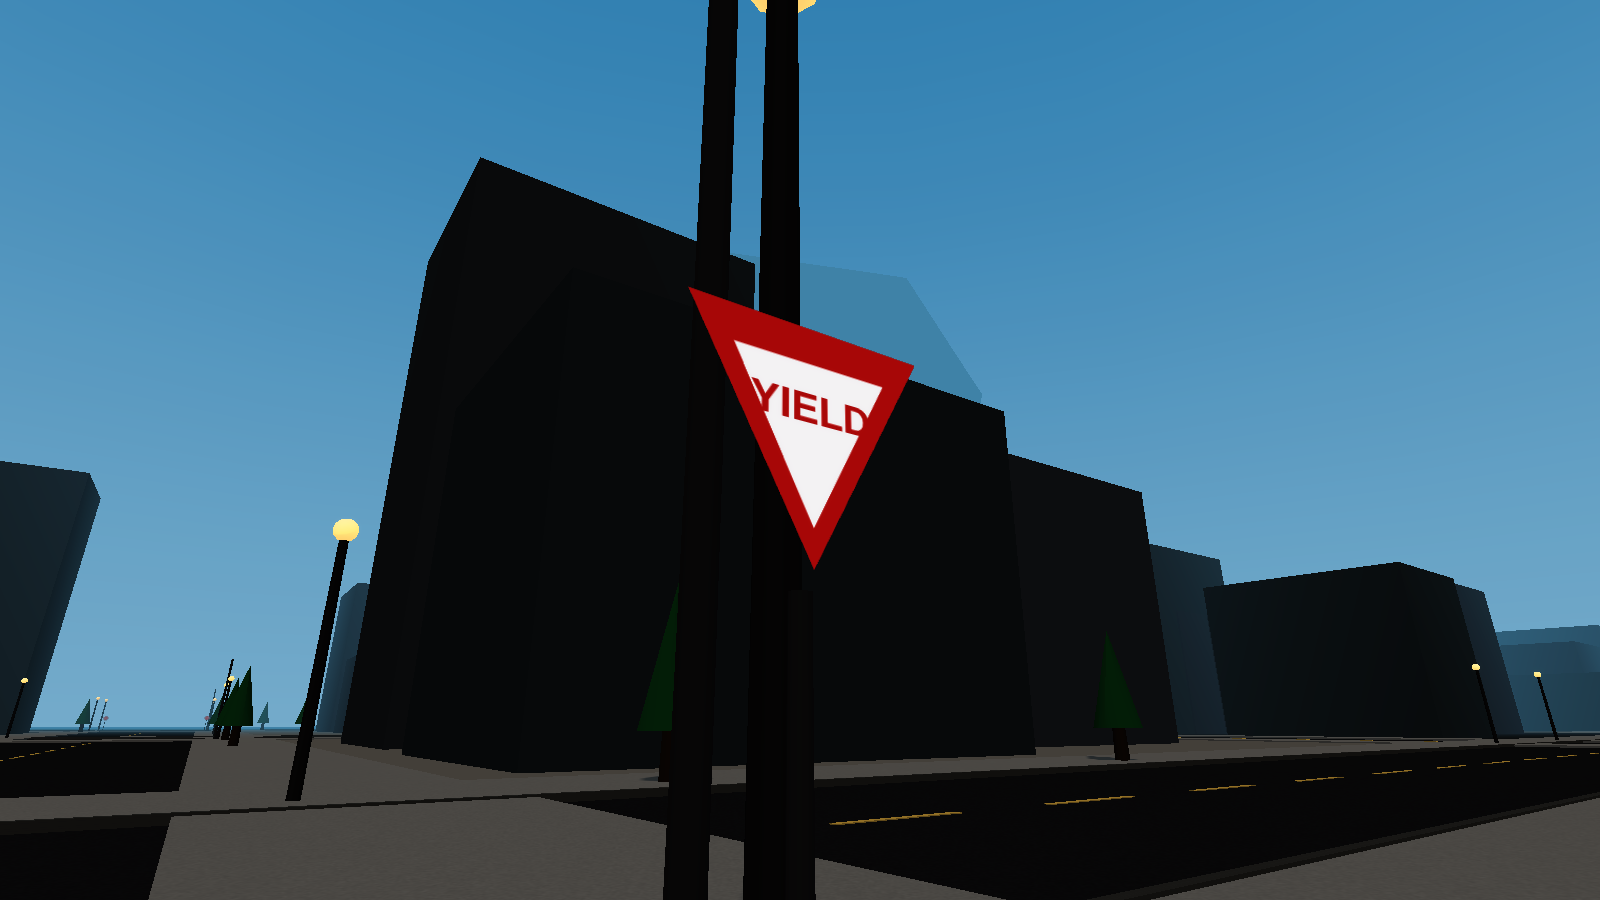
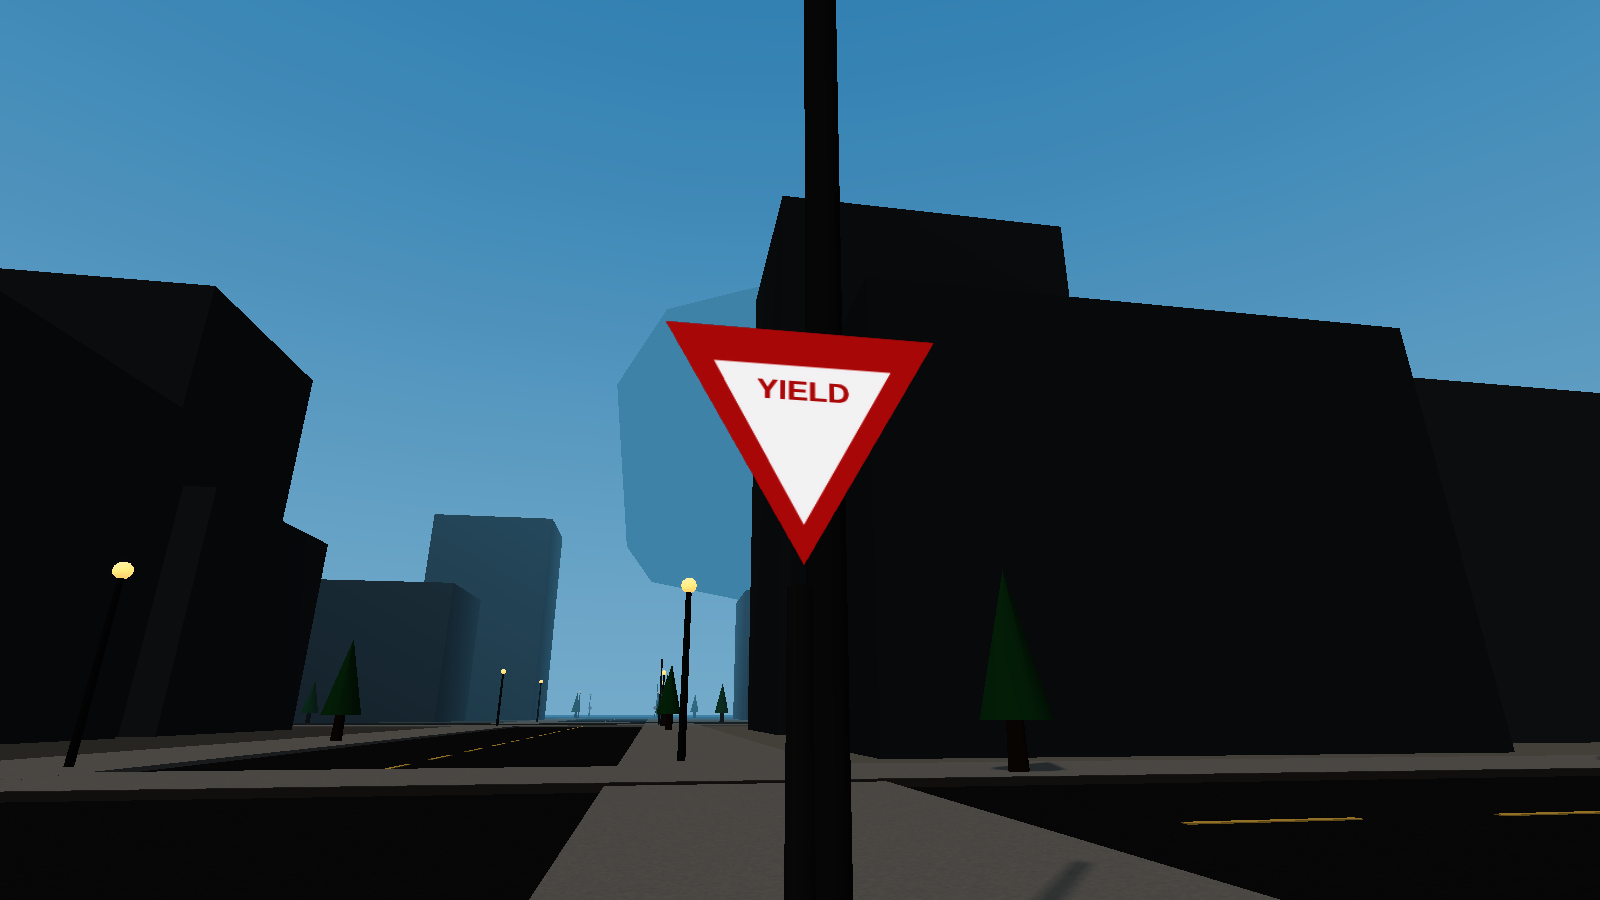
fix: keep YIELD inside the triangle and move corner streetlights
Shrink and centre YIELD near the wide top of the white field so the
Y no longer clips the red border. Offset decorative corner lamps 16 m
along the curb so a streetlight is not stacked on the sign post.
signPose and traffic rules stay the same.

diff --git a/game/src/render/trafficSigns.ts b/game/src/render/trafficSigns.ts
@@ -92,30 +92,54 @@ function paintStop(ctx: CanvasRenderingContext2D, w: number, h: number) {
   ctx.fillText('STOP', cx, cy + w * 0.012);
 }
 
-function paintYield(ctx: CanvasRenderingContext2D, w: number, h: number) {
-  ctx.clearRect(0, 0, w, h);
-  const cx = w / 2;
+/** Layout for YIELD inside the white field (inverted triangle, wide at the top). */
+export function yieldTextLayout(w: number, h: number) {
   const top = h * 0.06;
   const bot = h * 0.94;
   const half = w * 0.46;
-  const tri = (inset: number) => {
+  const inset = w * 0.14;
+  const whiteTop = top + inset;
+  const whiteBot = bot - inset;
+  const whiteHalfTop = half - inset * 1.15;
+  const textY = whiteTop + (whiteBot - whiteTop) * 0.18;
+  const t = (textY - whiteTop) / (whiteBot - whiteTop);
+  const halfAtY = whiteHalfTop * (1 - t);
+  const maxWidth = halfAtY * 2 * 0.72;
+  const font = Math.round(w * 0.105);
+  const approxWidth = 5 * font * 0.62;
+  return { top, bot, half, inset, textY, font, halfAtY, maxWidth, approxWidth, fits: approxWidth <= maxWidth };
+}
+
+function paintYield(ctx: CanvasRenderingContext2D, w: number, h: number) {
+  ctx.clearRect(0, 0, w, h);
+  const cx = w / 2;
+  const layout = yieldTextLayout(w, h);
+  const { top, bot, half, inset, textY } = layout;
+  const tri = (pad: number) => {
     ctx.beginPath();
-    ctx.moveTo(cx, bot - inset);
-    ctx.lineTo(cx - half + inset * 1.15, top + inset);
-    ctx.lineTo(cx + half - inset * 1.15, top + inset);
+    ctx.moveTo(cx, bot - pad);
+    ctx.lineTo(cx - half + pad * 1.15, top + pad);
+    ctx.lineTo(cx + half - pad * 1.15, top + pad);
     ctx.closePath();
   };
   tri(0);
   ctx.fillStyle = '#d32f2f';
   ctx.fill();
-  tri(w * 0.14);
+  tri(inset);
   ctx.fillStyle = '#f7f7f7';
   ctx.fill();
   ctx.fillStyle = '#d32f2f';
   ctx.textAlign = 'center';
   ctx.textBaseline = 'middle';
-  ctx.font = `bold ${Math.round(w * 0.16)}px Arial, Helvetica, sans-serif`;
-  ctx.fillText('YIELD', cx, h * 0.38);
+  let size = layout.font;
+  ctx.font = `bold ${size}px Arial, Helvetica, sans-serif`;
+  if (typeof ctx.measureText === 'function') {
+    while (size >= 10 && ctx.measureText('YIELD').width > layout.maxWidth) {
+      size -= 1;
+      ctx.font = `bold ${size}px Arial, Helvetica, sans-serif`;
+    }
+  }
+  ctx.fillText('YIELD', cx, textY);
 }
 
 function facingPlusX(geo: THREE.BufferGeometry): THREE.BufferGeometry {

diff --git a/game/src/render/cityLook.test.ts b/game/src/render/cityLook.test.ts
@@ -1,6 +1,8 @@
 import { describe, it, expect } from 'vitest';
 import * as THREE from 'three';
-import { applyVertexAO, instanceAO, FOG_FAR_DEFAULT, SKY_DAY } from './cityLook';
+import { applyVertexAO, cornerStreetLampOffsets, instanceAO, FOG_FAR_DEFAULT, SKY_DAY } from './cityLook';
+import { signPose } from '../sim/intersectionRules';
+import { vec3 } from '../sim/math';
 import { getCityTextures } from './cityTextures';
 
 describe('city look helpers', () => {
@@ -26,6 +28,16 @@ describe('city look helpers', () => {
   it('keeps fog far tight enough to hide pop-in', () => {
     expect(FOG_FAR_DEFAULT).toBeLessThanOrEqual(280);
     expect(SKY_DAY).toBeGreaterThan(0);
+  });
+
+  it('keeps corner streetlights off stop / yield posts', () => {
+    const inter = { center: vec3(0, 0, 0), signedHeadings: [0, Math.PI / 2, Math.PI, -Math.PI / 2] } as Parameters<typeof signPose>[0];
+    const lamps = cornerStreetLampOffsets(14).map(o => ({ x: o.x, y: -o.z }));
+    for (const heading of [0, Math.PI / 2, Math.PI, -Math.PI / 2]) {
+      const pose = signPose(inter, heading);
+      const nearest = Math.min(...lamps.map(l => Math.hypot(l.x - pose.x, l.y - pose.y)));
+      expect(nearest).toBeGreaterThan(4.5);
+    }
   });
 
   it('builds procedural textures without throwing', () => {

diff --git a/game/src/render/trafficSigns.test.ts b/game/src/render/trafficSigns.test.ts
@@ -1,6 +1,6 @@
 import { describe, it, expect } from 'vitest';
 import * as THREE from 'three';
-import { createSignGroup, getSignAssets, octagonPath, SIGN_BLADE_Y } from './trafficSigns';
+import { createSignGroup, getSignAssets, octagonPath, SIGN_BLADE_Y, yieldTextLayout } from './trafficSigns';
 
 describe('traffic signs', () => {
   it('shares one pole / stop / yield material across groups', () => {
@@ -47,6 +47,14 @@ describe('traffic signs', () => {
 
   it('caches one shared asset set', () => {
     expect(getSignAssets()).toBe(getSignAssets());
+  });
+
+  it('keeps YIELD inside the white triangle near the wide top', () => {
+    const layout = yieldTextLayout(256, 256);
+    expect(layout.fits).toBe(true);
+    expect(layout.textY).toBeLessThan(256 * 0.4);
+    expect(layout.approxWidth).toBeLessThan(layout.maxWidth);
+    expect(layout.font).toBeLessThan(256 * 0.14);
   });
 
   it('draws a flat-top octagon (8 vertices)', () => {

diff --git a/game/src/main.ts b/game/src/main.ts
@@ -86,6 +86,7 @@ import {
   buildingInstanceColor,
   buildingPaletteMaterial,
   configureRendererLook,
+  cornerStreetLampOffsets,
   createCityLook,
   curbMaterial,
   impostorMaterial,
@@ -493,9 +494,9 @@ function buildCityRoads() {
         cross.push({ x: x + roadWidth / 2 + 2.2, y: 0.03, z: z + s * 0.9, ry: Math.PI / 2 });
         cross.push({ x: x - roadWidth / 2 - 2.2, y: 0.03, z: z + s * 0.9, ry: Math.PI / 2 });
       }
-      for (const [dx, dz] of [[1, 1], [1, -1], [-1, 1], [-1, -1]] as const) {
-        poles.push({ x: x + dx * (roadWidth / 2 + 2), y: 3, z: z + dz * (roadWidth / 2 + 2) });
-        lamps.push({ x: x + dx * (roadWidth / 2 + 2), y: 6, z: z + dz * (roadWidth / 2 + 2) });
+      for (const off of cornerStreetLampOffsets(roadWidth)) {
+        poles.push({ x: x + off.x, y: 3, z: z + off.z });
+        lamps.push({ x: x + off.x, y: 6, z: z + off.z });
       }
     }
   }

diff --git a/game/src/render/cityLook.ts b/game/src/render/cityLook.ts
@@ -200,6 +200,19 @@ export function instanceAO(x: number, y: number, height: number): THREE.Color {
   return new THREE.Color(s, s, s * 0.98);
 }
 
+/** Corner streetlight offset from an intersection, in Three.js XZ. */
+export function cornerStreetLampOffsets(roadWidth: number): Array<{ x: number; z: number }> {
+  const side = roadWidth / 2 + 2;
+  const along = 16;
+  const out: Array<{ x: number; z: number }> = [];
+  for (const dx of [1, -1] as const) {
+    for (const dz of [1, -1] as const) {
+      out.push({ x: dx * along, z: dz * side });
+    }
+  }
+  return out;
+}
+
 export function makeGrassGround(): THREE.Mesh {
   const geo = new THREE.PlaneGeometry(1000, 1000, 8, 8);
   applyVertexAO(geo, 0.22);

diff --git a/wiki/systems/city-look.md b/wiki/systems/city-look.md
@@ -8,7 +8,7 @@ sources: [34, 35, 38]
 
 The live scene uses a hemisphere light plus one directional sun. The sun’s PCF-soft shadow camera is a **tight frustum** (~38 m) that follows the ego — one cascade, not a city-wide map. Renderer uses ACES filmic tone mapping and sRGB output. A back-face sky-dome shader paints a horizon gradient; linear fog (~70–240 m) hides far-building pop-in.
 
-Materials are procedural CC0 canvas textures (`cityTextures.ts`): **low-contrast isotropic noise** on asphalt / sidewalk / curb (no grout, no oil streaks). Each ground mesh clones the map and sets UV repeat from world size / 8 m so tiles are square. Mipmaps plus anisotropy (up to 8) hide distant shimmer. Buildings use the pre-#34 solid grey palette on instanced boxes (near + far impostor LOD) — no window-grid atlas. Block interiors are plazas, concrete pads, or parking lots, a visual-only 2×2 of grey lot buildings, plus benches/bins/planters so the 1000 m grass plane is not the block fill. Trees, poles, lamps, and road marks stay instanced. Stop / yield blades are shared canvas textures on two `InstancedMesh`es plus one pole instance (`trafficSigns.ts`); they face oncoming traffic and do not add per-sign draw calls.
+Materials are procedural CC0 canvas textures (`cityTextures.ts`): **low-contrast isotropic noise** on asphalt / sidewalk / curb (no grout, no oil streaks). Each ground mesh clones the map and sets UV repeat from world size / 8 m so tiles are square. Mipmaps plus anisotropy (up to 8) hide distant shimmer. Buildings use the pre-#34 solid grey palette on instanced boxes (near + far impostor LOD) — no window-grid atlas. Block interiors are plazas, concrete pads, or parking lots, a visual-only 2×2 of grey lot buildings, plus benches/bins/planters so the 1000 m grass plane is not the block fill. Trees, poles, lamps, and road marks stay instanced. Corner streetlights sit 16 m along the curb from the crossing (still on the sidewalk) so they do not share a post with a stop / yield. Stop / yield blades are shared canvas textures on two `InstancedMesh`es plus one pole instance (`trafficSigns.ts`); they face oncoming traffic and do not add per-sign draw calls.
 
 **Look High** (Esc) enables the sun shadows plus half-res bloom and a 16³ colour LUT. **Look Low** and Quality Low skip post. Pixel ratio is capped at 1.5. Lidar / BEV overlays stay on top: points are dimmer, stable (no per-frame jitter), and bloom threshold is high so cyan dots do not glow.
 

diff --git a/wiki/sources/pr-38.md b/wiki/sources/pr-38.md
@@ -13,6 +13,8 @@ Visual-only follow-up. `signPose` positions and `decideIntersection` are unchang
 - Blades live in the local YZ plane (normal +X) so `meshYawForHeading(sign.yaw)` faces oncoming traffic (`yaw = heading + π`).
 - Shared canvas textures + geometries; upright signs are three `InstancedMesh`es (pole / stop / yield). Fallen signs hide the instance and spawn a `createSignGroup` that reuses the same assets.
 - Lidar, Tesla vision, and HUD counts still read world-entity `id` / `classType` / bounding boxes.
+- **YIELD** is a smaller centred string near the wide top of the white triangle (does not clip the red border).
+- Corner streetlights are offset 16 m along the curb (`cornerStreetLampOffsets`) so a lamp post is not stacked on the sign pole. `signPose` is unchanged.
 
 Planner, spawn, `updateVehicle`, `removeGround`, `createBEVOccupancyFromAgents`, and `simHotPath.ts` were not edited.
 

diff --git a/wiki/log.md b/wiki/log.md
@@ -113,3 +113,5 @@ Append-only. `grep "^## \[" wiki/log.md | tail -5`
 ## [2026-10-15] merge | origin/main (#35 city look) into PR #36 spawn / menu modes
 
 ## [2026-10-15] ingest | PR #38 North-American stop/yield sign visuals
+
+## [2026-10-15] ingest | PR #38 yield lettering + streetlight clearance
